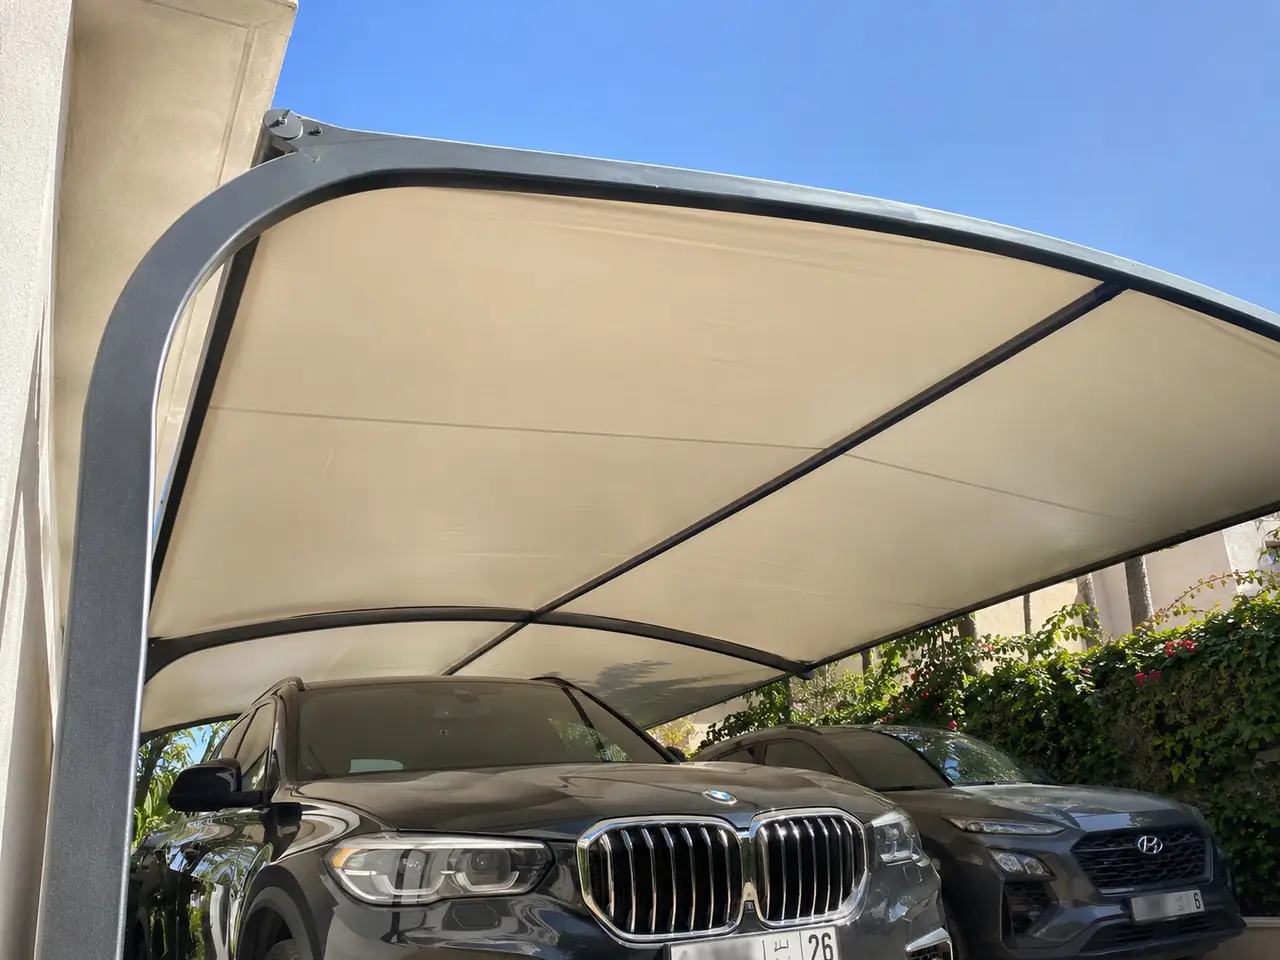
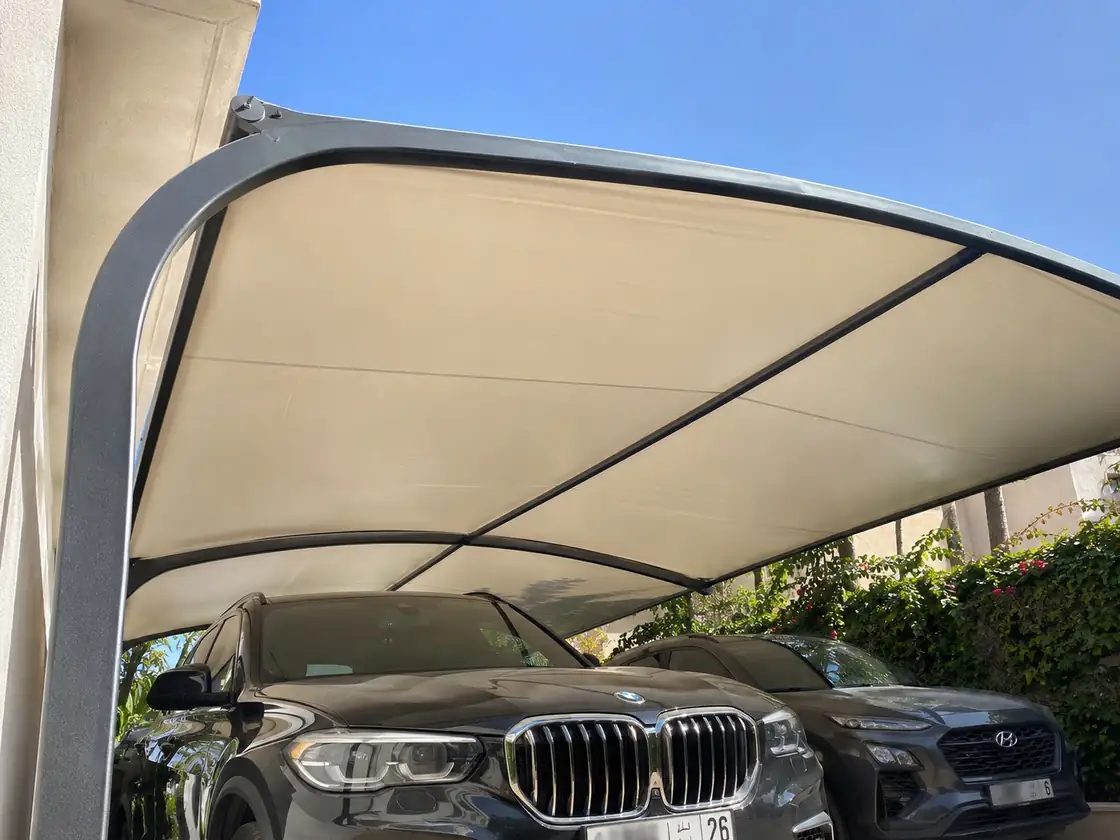
perf: shrink Abri voiture hero image for faster LCP
Recompress the residence hero and lower next/image quality on priority media.

diff --git a/src/content/images.ts b/src/content/images.ts
@@ -464,8 +464,8 @@ export const images: Record<ImageId, ImageAsset> = {
     id: "abri-residence",
     src: "/images/abri-voiture/abri-voiture-residence.webp",
     alt: "Abri voiture double en console anthracite et toile PVC beige protégeant deux SUV devant une résidence.",
-    width: 1280,
-    height: 960,
+    width: 1120,
+    height: 840,
     objectPosition: "center center",
     caption: "Deux places, structure en console.",
     variant: "carport",
